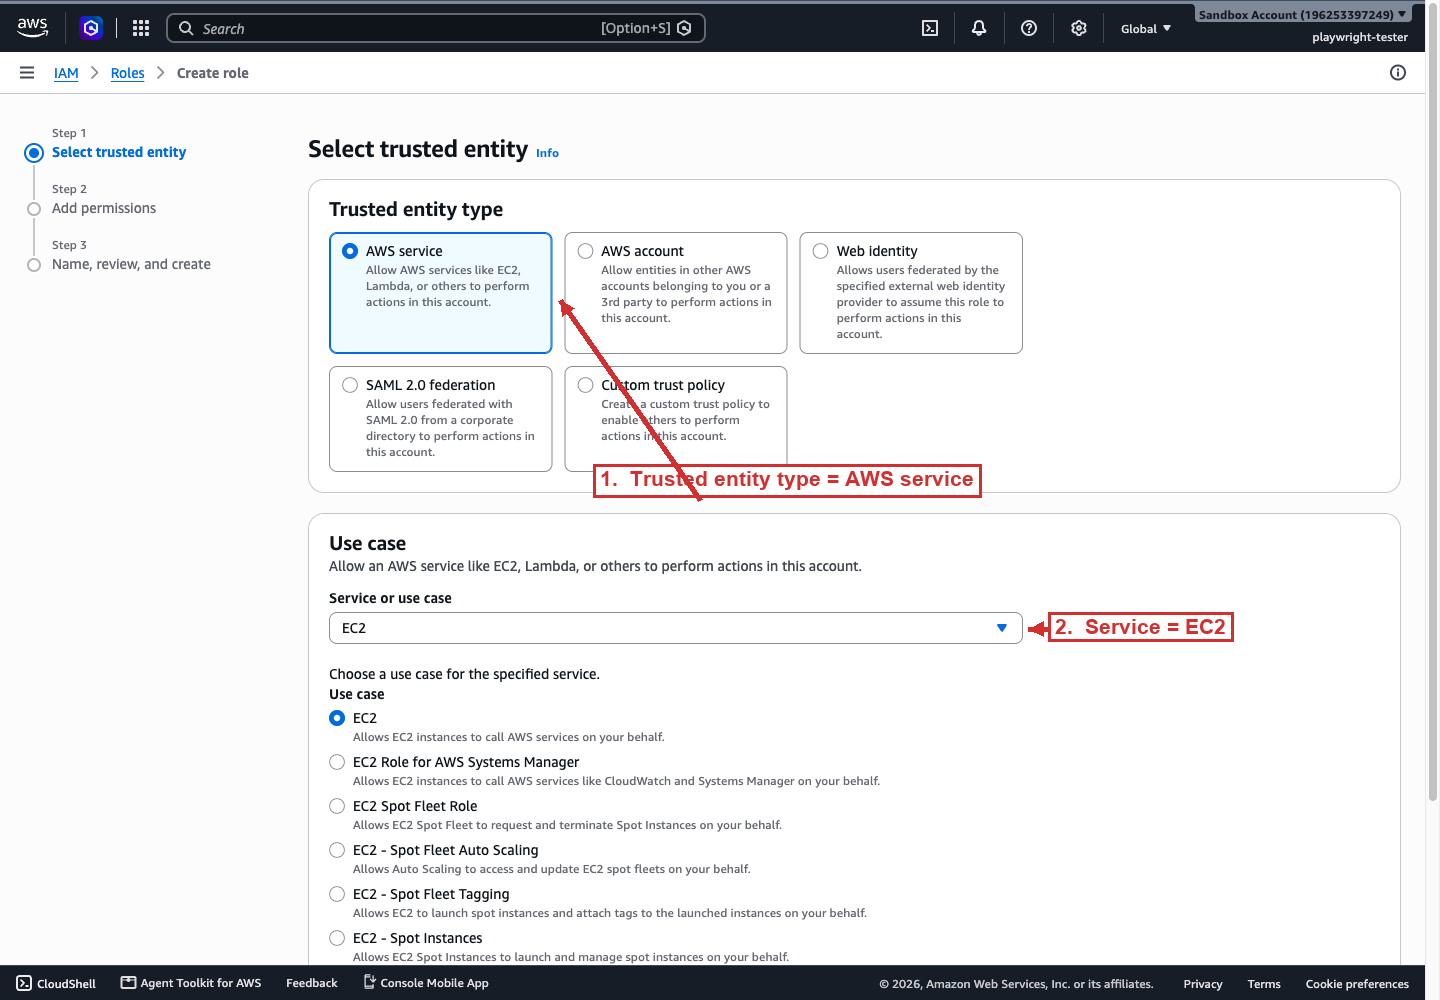
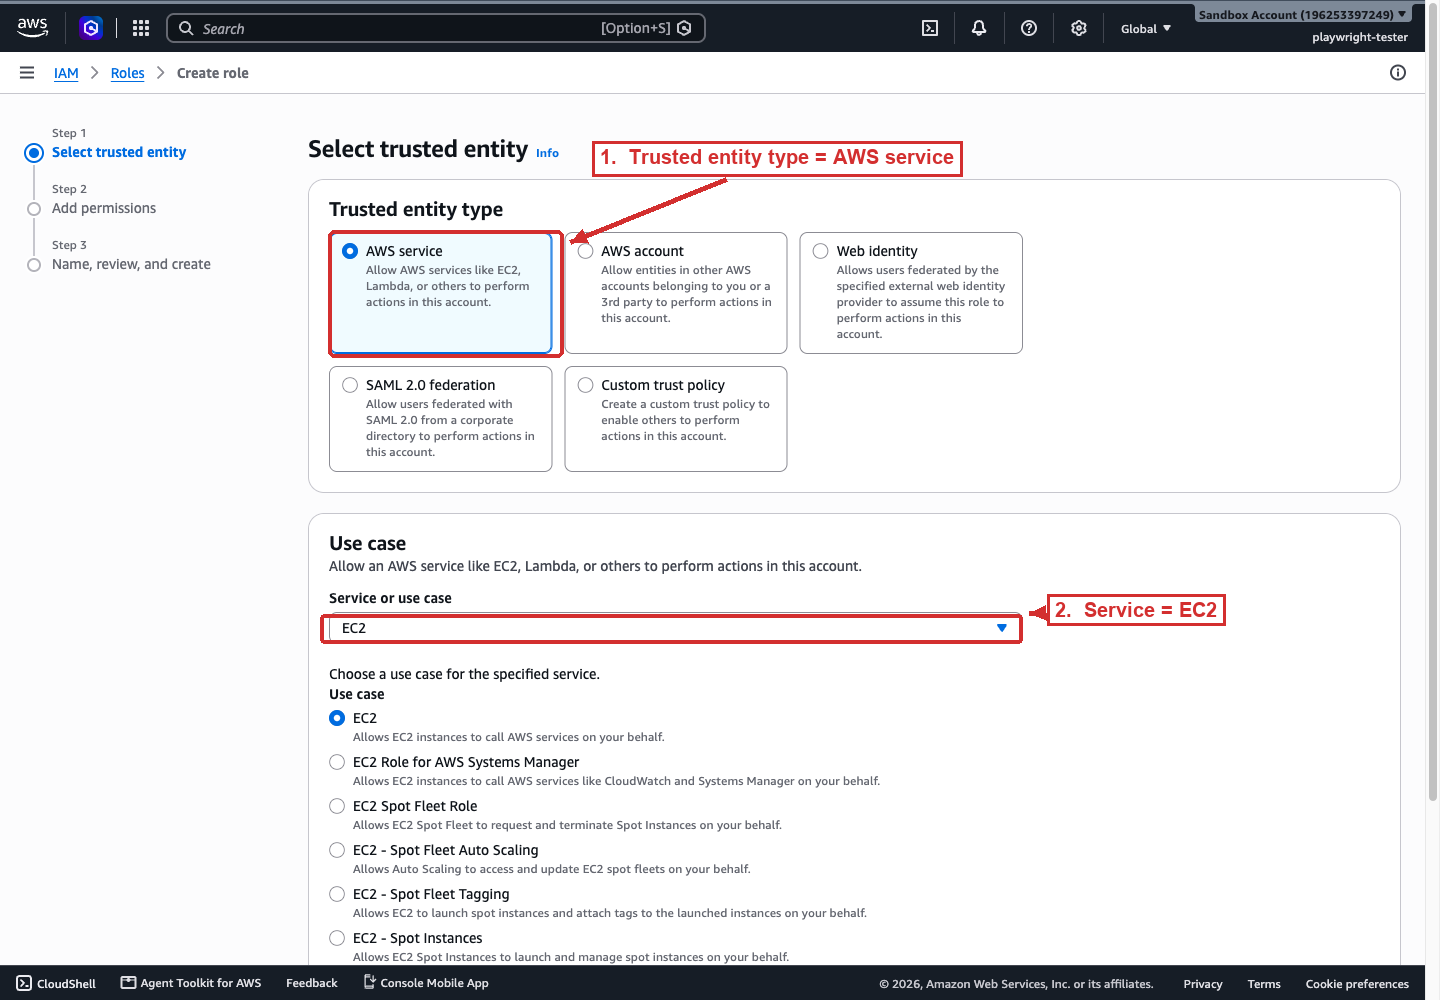
docs: precise diagram annotation, flowchart/image prose, and inline Mermaid rules
- Fold 08-reference/07-mermaid-aws-style.md into AGENTS.md section 32; delete
  the file so diagram patterns live only in AGENTS.md.
- Require a paragraph before and after every documentation image and diagram.
- Rewrite the annotation rule: arrow starts at the label-box edge and ends at
  the target highlight-box edge, with clearance and no overlap; redraw all
  eight annotated screenshots accordingly.

diff --git a/AGENTS.md b/AGENTS.md
@@ -759,8 +759,7 @@ aws-cloudops-soa-c03/
 │   ├── 03-aws-whitepapers.md
 │   ├── 04-aws-prescriptive-guidance.md
 │   ├── 05-community-resources.md
-│   ├── 06-glossary.md
-│   └── 07-mermaid-aws-style.md
+│   └── 06-glossary.md
 │
 ├── assets/
 │   ├── images/
@@ -1961,10 +1960,64 @@ Rules that apply to every diagram:
 
 Every diagram must look like an AWS reference diagram, not a bare default flowchart. The same four ingredients are used in every diagram, so they all read alike.
 
-1. **Containers.** Nest `subgraph` blocks for the AWS Cloud, Region, account, VPC, and subnets, then style each with the AWS structural colors: navy `#232F3E` dashed for the cloud, teal `#00A4A6` for Region and account, purple `#8C4FFF` for the VPC, green `#248814` for public subnets, teal `#147EBA` for private subnets.
-2. **Category colors.** Fill every service node with its AWS category color and white text through `classDef`: Compute `#ED7100`, Storage `#7AA116`, Security `#DD344C`, Database `#C925D1`, Networking and Analytics `#8C4FFF`, Application Integration and Management & Governance `#E7157B`, AI `#01A88D`.
-3. **Fixed node styles.** Every node carries one of a small set of styles, so no node is left at the default theme: a service uses its category color, a process or step node uses the neutral `#F1F3F3` fill with navy text, a decision uses a white fill with a navy stroke, an actor uses a navy fill with white text, and an allow outcome uses Storage green while a deny outcome uses Security red.
+1. **Containers.** Nest `subgraph` blocks for the AWS Cloud, Region, account, VPC, and subnets, and style each with the AWS structural colors in the table below.
+2. **Category colors.** Fill every service node with its AWS category color and white text through `classDef`, using the table below.
+3. **Fixed node styles.** Every node carries one of a small set of styles, so no node is left at the default theme; the table below fixes them.
 4. **Semantic shapes.** Rectangle for a service or step, cylinder `[( )]` for a data store, `{ }` for a decision, `(( ))` for an actor.
+
+Structural colors (container `style` lines):
+
+| Boundary | Stroke | Font color | Style line |
+|----------|--------|-----------|------------|
+| AWS Cloud | `#232F3E` dashed | `#232F3E` | `style CLOUD fill:#ffffff,stroke:#232F3E,stroke-width:2px,stroke-dasharray:5 5,color:#232F3E` |
+| Region | `#00A4A6` | `#147EBA` | `style REGION fill:#ffffff,stroke:#00A4A6,stroke-width:2px,color:#147EBA` |
+| Availability Zone | `#00A4A6` dashed | `#147EBA` | `style AZ fill:#ffffff,stroke:#00A4A6,stroke-dasharray:3 3,color:#147EBA` |
+| Account | `#00A4A6` | `#CD2264` | `style ACCT fill:#ffffff,stroke:#00A4A6,stroke-width:2px,color:#CD2264` |
+| VPC | `#8C4FFF` | `#8C4FFF` | `style VPC fill:#ffffff,stroke:#8C4FFF,stroke-width:2px,color:#8C4FFF` |
+| Public subnet | `#248814` | `#248814` | `style PUB fill:#ffffff,stroke:#248814,color:#248814` |
+| Private subnet | `#00A4A6` | `#147EBA` | `style PRIV fill:#ffffff,stroke:#00A4A6,color:#147EBA` |
+| Security group | `#DD3522` dashed | `#DD3522` | `style SG fill:#ffffff,stroke:#DD3522,stroke-dasharray:3 3,color:#DD3522` |
+| External / third party | `#7D8998` dashed | `#7D8998` | `style EXT fill:#ffffff,stroke:#7D8998,stroke-dasharray:3 3,color:#7D8998` |
+
+Nest the boundaries from largest to smallest: Cloud, then Region, then account, then VPC, then subnet. Keep container fills white so inner nodes stay readable.
+
+Category colors (service `classDef` fills, white text):
+
+| Category | Hex | Example services |
+|----------|-----|------------------|
+| Compute, Containers, Serverless | `#ED7100` | EC2, Lambda, ECS, EKS, Fargate |
+| Storage | `#7AA116` | S3, EBS, EFS, FSx, Backup |
+| Database | `#C925D1` | RDS, Aurora, DynamoDB, ElastiCache |
+| Networking and Content Delivery | `#8C4FFF` | VPC, ELB, Route 53, CloudFront, API Gateway |
+| Analytics | `#8C4FFF` | Athena, EMR, Kinesis, Data Firehose |
+| Security, Identity, and Compliance | `#DD344C` | IAM, KMS, GuardDuty, WAF, Secrets Manager |
+| Application Integration | `#E7157B` | SNS, SQS, EventBridge, Step Functions |
+| Management and Governance | `#E7157B` | CloudWatch, CloudTrail, CloudFormation, Config |
+| Artificial Intelligence | `#01A88D` | Bedrock, SageMaker |
+| Migration and Modernization | `#01A88D` | DataSync, Transfer Family |
+
+Analytics shares `#8C4FFF` with Networking, and Application Integration shares `#E7157B` with Management and Governance. Two categories sharing a hex is correct, they are grouped that way in the AWS palette.
+
+Node styles (non-service nodes):
+
+| Node | Fill | Stroke | Text |
+|------|------|--------|------|
+| Process or step | `#F1F3F3` | `#232F3E` | `#232F3E` |
+| Decision | `#ffffff` | `#232F3E` | `#232F3E` |
+| Actor or start | `#232F3E` | `#232F3E` | `#ffffff` |
+| Allow or success | `#7AA116` | `#7AA116` | `#ffffff` |
+| Deny or failure | `#DD344C` | `#DD344C` | `#ffffff` |
+
+Shapes:
+
+| Meaning | Syntax | Renders as |
+|---------|--------|-----------|
+| Service | `A["Label"]` | rectangle |
+| Service (rounded) | `A("Label")` | rounded rectangle |
+| Data store, database | `A[("Label")]` | cylinder |
+| Decision | `A{"Question?"}` | rhombus |
+| Actor, start, end | `A(("Label"))` | circle |
+| Subroutine, external system | `A[["Label"]]` | double-edged box |
 
 Worked example, an EC2 instance reading an S3 bucket through a role:
 
@@ -2016,11 +2069,36 @@ flowchart TD
     class G ok
 ```
 
+Copy-paste skeleton for a new diagram:
+
+```mermaid
+flowchart LR
+    ACTOR(("User"))
+    subgraph CLOUD["AWS Cloud"]
+      direction TB
+      subgraph ACCT["Account 111122223333"]
+        SVC["Service"]:::compute
+        STORE[("Data store")]:::storage
+        subgraph VPC["VPC 10.0.0.0/16"]
+          APP["EC2 instance"]:::compute
+        end
+      end
+    end
+    ACTOR -->|"action"| SVC
+    APP -->|"call"| STORE
+    SVC -->|"write"| STORE
+    classDef compute fill:#ED7100,stroke:#ED7100,color:#ffffff
+    classDef storage fill:#7AA116,stroke:#7AA116,color:#ffffff
+    classDef actor fill:#232F3E,stroke:#232F3E,color:#ffffff
+    class ACTOR actor
+    style CLOUD fill:#ffffff,stroke:#232F3E,stroke-width:2px,stroke-dasharray:5 5,color:#232F3E
+    style ACCT fill:#ffffff,stroke:#00A4A6,stroke-width:2px,color:#CD2264
+    style VPC fill:#ffffff,stroke:#8C4FFF,stroke-width:2px,color:#8C4FFF
+```
+
 ## No icons, symbols, or emoji
 
-Do not put emoji, iconify icons (`logos:aws-*`), Font Awesome icons (`fa:fa-*`), or any other glyph in a node label. GitHub renders neither Font Awesome nor iconify, and emoji and symbols are not used in this repository's diagrams. The AWS look comes from the structural containers, the category colors, and the shapes alone. Do not write `architecture-beta`; it does not render on GitHub. The same diagrams can be upgraded to iconified `architecture-beta` diagrams on a renderer that supports icon packs (VS Code Mermaid preview, mermaid.live, Mermaid Chart); that path is documented in `08-reference/07-mermaid-aws-style.md`.
-
-The full palette, node styles, container styles, and copy-paste templates live in `08-reference/07-mermaid-aws-style.md`.
+Do not put emoji, iconify icons (`logos:aws-*`), Font Awesome icons (`fa:fa-*`), or any other glyph in a node label. GitHub renders neither Font Awesome nor iconify, and emoji and symbols are not used in this repository's diagrams. The AWS look comes from the structural containers, the category colors, and the shapes alone. Do not write `architecture-beta`; it does not render on GitHub. On a renderer that supports icon packs (VS Code Mermaid preview, mermaid.live, Mermaid Chart) the same topology could be redrawn as an `architecture-beta` diagram with `logos:aws-*` icons, but that is not used here because it does not render on GitHub.
 
 All Mermaid syntax must be valid.
 
@@ -2949,7 +3027,14 @@ When the screen is a wizard or a sequence, capture each step as its own image ra
 
 ## Annotate the screen
 
-Where a screenshot contains a field or value the prose refers to, mark it: a single-color arrow and a short numbered label pointing at the element. Numbered labels (1, 2, 3) let the caption explain each element without covering the screen. Keep arrows in one color, place labels over whitespace where possible, and never cover the value being pointed at. Annotate after capturing with a local image library (for example Pillow); do not modify the AWS page itself, and do not annotate marketing or purely informational screens.
+Where a screenshot contains a field or value the prose refers to, mark it with a highlight and a numbered label connected by an arrow. The geometry is exact, not approximate:
+
++ **Highlight box.** Outline the target element with a single-color rectangle that hugs it, so it is clear exactly which control the number refers to.
++ **Label box.** Draw each numbered label as a rectangle over whitespace, holding the number and a short phrase (for example `1. Choose the principal`). The label box must not cover the element it points at or any other value on the screen.
++ **Arrow endpoints.** The arrow starts at the edge of the label box and ends at the edge of the target's highlight box, leaving a few pixels of clearance at each end. The arrow must not start or end inside either box, must not overlap or cross the label text, and must not cross any other label.
++ **One arrow per number.** Every numbered label has exactly one arrow to exactly one target. Do not leave a label without an arrow, or an arrow without a label.
+
+Annotate after capturing with a local image library (for example Pillow); do not modify the AWS page itself, and do not annotate marketing or purely informational screens. Open the finished image and check it: if any arrow overlaps a label box or stops short of its target highlight, redraw it.
 
 ## Where to store and how to name
 
@@ -2964,15 +3049,27 @@ The name is `<NN>-<service>-<what the screen shows>.png`. The two-digit prefix f
 
 ## How to reference
 
-Embed with a relative path and a caption. These are self-captured images, so no external `Source` line is required (unlike §33):
+Embed with a lead-in paragraph, the image, and a caption paragraph. These are self-captured images, so no external `Source` line is required (unlike §33):
 
 ```markdown
+The IAM Users console lists every long-lived identity in the account next to the columns you audit: MFA presence, password age, and last sign-in.
+
 ![IAM Users list showing the playwright-tester user](assets/images/screenshots/iam/02-iam-users-list-mfa-status.png)
 
-*The IAM Users list. The MFA column shows whether each human user has a second factor.*
+*The IAM Users list. The MFA column shows whether each human user has a second factor; a user with no MFA and an old password is the finding an attacker wants.*
 ```
 
 Verify the relative path resolves from the document's own directory. A link that breaks is worse than no screenshot.
+
+## Explain every image
+
+Never drop an image into a document with no context. Every screenshot is surrounded by prose:
+
+- a paragraph immediately before it that introduces what the screen is and what to look at;
+- the image;
+- a paragraph immediately after it (the figure caption, set in italics) that gives the precise details: the exact values shown, what each numbered label points to, and what the reader should conclude.
+
+A bare image with no lead-in or no caption is incomplete. The lead-in orients the reader; the caption teaches the specifics. The same applies to a Mermaid diagram: introduce it in prose before the block and explain what it shows after it.
 
 ## Security
 

diff --git a/02-services/13-security-identity-compliance/01-iam/01-concepts.md b/02-services/13-security-identity-compliance/01-iam/01-concepts.md
@@ -12,6 +12,8 @@ A principal is an entity that can make authenticated requests to AWS.
 - **IAM role.** An identity you assume, not one you sign in as. Grants *temporary* credentials via AWS STS. Roles are the correct way to give an EC2 instance, a Lambda function, or another AWS account access to resources.
 - **Federated identity.** Users from an external IdP (SAML 2.0, OIDC, or IAM Identity Center) that map to roles.
 
+The IAM Users console lists every long-lived identity in the account next to the columns you audit: MFA presence, password age, and last sign-in. The screenshot below is that list for the sandbox account, which holds a single user.
+
 ![IAM Users list showing the single playwright-tester user](../../../assets/images/screenshots/iam/02-iam-users-list-mfa-status.png)
 
 *The IAM Users console. Each row is one long-lived identity; the MFA and Password age columns are how you audit human users at a glance. A user with no MFA and an old, un-rotated password is the finding an attacker wants.*
@@ -41,6 +43,8 @@ A complete statement that lets an application read objects under one bucket pref
 
 Reading it element by element: `Effect: Allow` grants the action; `Action` names one operation (`s3:GetObject`) rather than `s3:*`; `Resource` scopes the grant to the `reports/` prefix, where the trailing `/*` matches every object under it; and `Condition` narrows the grant to traffic that arrives through that VPC endpoint, so the same role used over the public internet is denied. That last clause is what makes this a least-privilege statement and not a broad one.
 
+The console is where a policy is authored, and the Create policy screen offers two ways to build one. The screenshot below shows the editor with the JSON tab selected, holding the default single-statement template that every new policy starts from.
+
 ![IAM Create policy JSON editor showing a default Allow statement](../../../assets/images/screenshots/iam/03-iam-create-policy-json-editor.png)
 
 *The IAM policy editor. A statement can be hand-written in the JSON tab or assembled through the Visual builder (1); the side panel (2) adds services, actions, resources, and conditions without editing the JSON by hand. The editor validates the document and reports errors, warnings, and suggestions as you type.*
@@ -64,6 +68,8 @@ This is the single most testable fact about IAM. When a principal requests an ac
 - **Permissions boundary** → the **intersection**. The boundary caps the maximum the identity-based policy can grant.
 - **SCP / RCP (Organizations)** → another **intersection** that caps what member-account principals can do.
 
+The order in which those checks run is what the diagram below makes explicit.
+
 ```mermaid
 flowchart TD
     R(("Request")) --> A["Authenticate the principal"]
@@ -81,6 +87,8 @@ flowchart TD
     class D,D2 deny
     class AL ok
 ```
+
+The diagram walks one request through the rules in order: the explicit-deny check runs first, then the union of identity-based and resource-based allows, then the intersection of any permissions boundary or SCP. The request reaches Allow only by passing all three; a deny anywhere, or a missing allow, ends at Deny.
 
 If no policy explicitly allows an action, the default is **implicit deny**. IAM has no implicit allow.
 

diff --git a/02-services/13-security-identity-compliance/01-iam/03-troubleshooting.md b/02-services/13-security-identity-compliance/01-iam/03-troubleshooting.md
@@ -5,6 +5,8 @@ Access-denied is the most common IAM failure, and almost every case reduces to o
 > [!TIP]
 > Start with the **IAM policy simulator** before any live call. It evaluates the effective permissions of a principal against a specific action and resource ARN and reports allow or deny plus the reason, without you triggering the real request or waiting for CloudTrail. Only when the simulator says "allowed" but the live call still fails do you reach for CloudTrail, the boundary/SCP, and `DecodeAuthorizationMessage`.
 
+The checklist below turns that chain into an ordered flow, so a denial is worked from the top until one step explains it.
+
 ```mermaid
 flowchart TD
     A["Access denied on action X"] --> B["Confirm the principal running the call (sts get-caller-identity)"]
@@ -18,6 +20,8 @@ flowchart TD
     class A deny
     class B,C,D,E,F,G step
 ```
+
+Following the flow from the top, you confirm which identity is really making the call, then eliminate the three causes that silently remove access: an explicit deny, a missing allow, and a boundary or SCP cap. The last two steps catch failures specific to one request rather than the whole principal, a condition that did not match and a resource ARN that points somewhere else.
 
 ## Diagnose in order
 
@@ -34,6 +38,8 @@ flowchart TD
 - **CloudTrail**, records the API call, the principal, and whether access was denied. Search for the error code (`AccessDenied`) and the caller identity.
 - **IAM Access Analyzer**, finds policies that grant external access to a resource; it also validates policy syntax and IAM grammar.
 - **`DecodeAuthorizationMessage`**, decodes the encoded authorization failure in an `AccessDenied` response into the reason and the matched policy, which is faster than reproducing the call.
+
+The policy simulator is a console tool rather than a CLI command, and it is usually the fastest way to answer an access question because it makes no live call. The screenshot below shows it loaded with a role as the principal and that role's applicable policies pulled in.
 
 ![IAM Policy simulator showing a role and the policies that apply to it](../../../assets/images/screenshots/iam/08-iam-policy-simulator-simulation.png)
 

diff --git a/02-services/13-security-identity-compliance/01-iam/README.md b/02-services/13-security-identity-compliance/01-iam/README.md
@@ -11,11 +11,13 @@ IAM manages two concerns in one service:
 
 IAM is global, not regional. Users, roles, and policies exist account-wide; a role created in one Region is usable in all Regions.
 
+The IAM dashboard in the console is the first screen to open when reviewing an account. It summarizes the account's security posture and its IAM resource counts in a single view, which makes it the fastest orientation before drilling into users, roles, or policies.
+
 ![IAM dashboard showing security recommendations, resource counts, and the account sign-in URL](../../../assets/images/screenshots/iam/01-iam-dashboard-security-recommendations.png)
 
 *The IAM dashboard for the sandbox account. The Security recommendations panel and the resource counts on the left are the first things to check when auditing an account; the AWS Account panel on the right holds the account ID and the sign-in URL for IAM users.*
 
-The pieces fit together as principals, policies, and resources:
+The pieces fit together as principals, policies, and resources. The diagram below groups them and shows the arrows between the groups: each arrow is one of those relationships.
 
 ```mermaid
 flowchart LR
@@ -50,6 +52,8 @@ flowchart LR
     style POLICY fill:#ffffff,stroke:#00A4A6,stroke-width:2px,color:#147EBA
     style RES fill:#ffffff,stroke:#8C4FFF,stroke-width:2px,color:#8C4FFF
 ```
+
+Read it as three questions. An identity (who) has a policy attached; an identity-based policy grants what that identity may do; a resource-based policy grants who may touch a resource (which). The dashed arrow is different from the rest: a permissions boundary caps a role and can only remove access, never add it, which is why it points at the role rather than carrying a grant.
 
 ## SOA-C03 relevance
 

diff --git a/01-concepts/01-networking/01-ip-addressing/03-troubleshooting.md b/01-concepts/01-networking/01-ip-addressing/03-troubleshooting.md
@@ -2,6 +2,8 @@
 
 Most CIDR problems surface as one of two symptoms: a subnet runs out of addresses, or two networks cannot connect. Work the first as a capacity problem and the second as an overlap problem; they have different causes and different fixes.
 
+The diagram below traces the capacity path, the more common of the two.
+
 ```mermaid
 flowchart TD
     A["Can't place a resource in a subnet"] --> B["Check subnet free addresses (usable = 2^(32−n) − 5)"]
@@ -14,6 +16,8 @@ flowchart TD
     class A network
     class F ok
 ```
+
+The path runs from symptom to fix: check the usable count first (`2^(32−n) − 5`), flag a `/28` as the usual culprit, then rule out an overlap before concluding that the fix is a larger subnet or a secondary VPC CIDR. The overlap branch is the second symptom; it fails at connect time rather than at launch, so it is deferred until the capacity checks are exhausted.
 
 ## Symptom table
 
@@ -43,6 +47,8 @@ aws ec2 describe-subnets --subnet-ids subnet-0abc123 \
 ```
 
 `AvailableIpAddressCount` already excludes the five reserved addresses, so it is the number of addresses you can actually assign, not the raw `2^(32−n)` total.
+
+The console reports the same figure on a subnet's details page. The screenshot below shows one subnet's IPv4 CIDR next to its remaining address count, which is the number to check when a subnet is reported full.
 
 ![Subnet details page showing the IPv4 CIDR and the available IPv4 addresses](../../../assets/images/screenshots/vpc/02-vpc-subnet-details-available-ipv4.png)
 

diff --git a/02-services/13-security-identity-compliance/01-iam/02-security.md b/02-services/13-security-identity-compliance/01-iam/02-security.md
@@ -26,6 +26,8 @@ Grant only the actions and resources a principal needs.
 - **MFA** on the root user and on every human user. Virtual MFA (TOTP) or hardware (U2F) device. MFA protects console sign-in; it does not protect programmatic access keys, which is why human users should normally assume a role instead of holding keys.
 - **Password policy** is account-wide: minimum length, complexity, rotation, and reuse prevention. There is exactly one password policy per account, so it applies to every IAM user and cannot be set per user.
 
+Because it is a single account-level setting, the password policy is configured in the console rather than in a policy document. The screenshot below shows the Password policy panel on the IAM Account settings page.
+
 ![IAM Account settings showing the account-wide password policy](../../../assets/images/screenshots/iam/07-iam-account-password-policy.png)
 
 *The password policy lives in IAM Account settings and applies to the whole account (2); the Edit button (1) is where minimum length, the character-type requirement, expiry, and reuse rules are changed. There is no per-user password setting, which is why one policy governs every IAM user.*

diff --git a/01-concepts/01-networking/01-ip-addressing/01-concepts.md b/01-concepts/01-networking/01-ip-addressing/01-concepts.md
@@ -46,6 +46,8 @@ Split it into two `/25` subnets. Each half moves the prefix one bit longer and h
 - `10.0.0.0/25` → `10.0.0.0` – `10.0.0.127`
 - `10.0.0.128/25` → `10.0.0.128` – `10.0.0.255`
 
+The diagram below shows that split, with the parent range at the top and the two halves below it.
+
 ```mermaid
 flowchart TD
     VPC["VPC 10.0.0.0/24<br/>256 addresses"] --> A["10.0.0.0/25<br/>.0 to .127<br/>network .0, broadcast .127"]
@@ -53,6 +55,8 @@ flowchart TD
     classDef network fill:#8C4FFF,stroke:#8C4FFF,color:#ffffff
     class VPC,A,B network
 ```
+
+The diagram shows the parent `/24` splitting into two equal `/25` halves, each with its own network and broadcast address. Lengthening the prefix by one bit is what halves the address count at every split, so each generation of subnets is half the size of the one above it.
 
 A `/28` (`10.0.0.0/28`) has `2^4 = 16` addresses, `10.0.0.0` to `10.0.0.15`. That is the smallest subnet AWS allows.
 

diff --git a/01-concepts/01-networking/01-ip-addressing/02-aws-addressing.md b/01-concepts/01-networking/01-ip-addressing/02-aws-addressing.md
@@ -42,6 +42,8 @@ aws ec2 create-subnet --vpc-id vpc-0abc123 --cidr-block 10.0.1.0/24
 
 The subnet CIDR (`10.0.1.0/24`) sits entirely inside the VPC CIDR (`10.0.0.0/16`) and does not overlap any other subnet. AWS rejects a subnet outside the VPC range, and rejects one that overlaps an existing subnet in the same VPC.
 
+The console enforces that containment while you fill in the form. The screenshot below shows the Create subnet screen, where the VPC's range is shown above the field for the subnet's own CIDR.
+
 ![Create subnet form showing the VPC CIDR block and the subnet CIDR block fields](../../../assets/images/screenshots/vpc/01-vpc-create-subnet-form-cidr.png)
 
 *The Create subnet form. The subnet's IPv4 CIDR block (2) must lie inside the VPC's IPv4 CIDR block (1). The console counts the addresses as you type, 256 IPs for the `/24` above, before the five AWS reservations are subtracted.*
